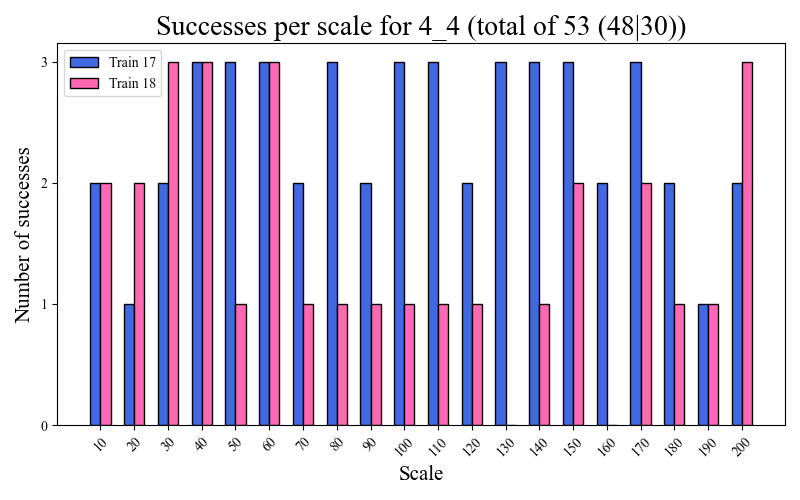
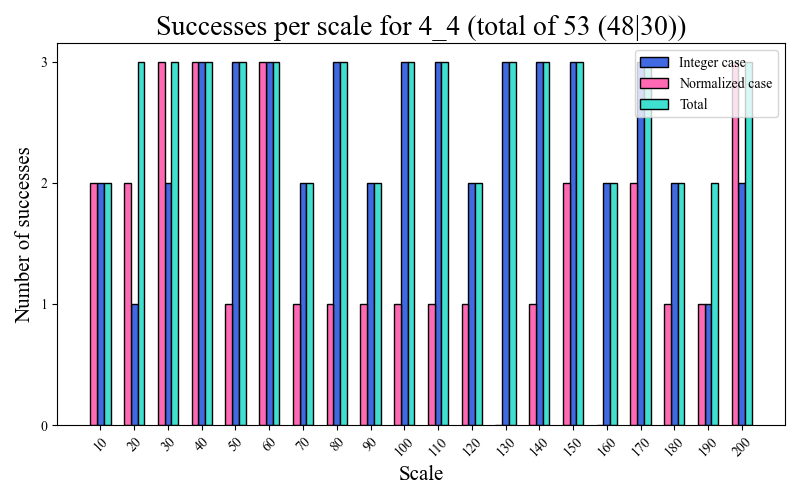
update figures with total success column

diff --git a/check_results.py b/check_results.py
@@ -23,8 +23,13 @@ def analyze_for_100_5_3():
     """
     # Sum the successes
     successes1, successes2, total_successes = 0, 0, 0
-    scale_successes1, scale_successes2 = {}, {}
+    scale_successes1, scale_successes2, scale_successes = {}, {}, {}
     repetitions = 5
+
+    # Modify the working directory
+    global WORKING_DIR
+    WORKING_DIR = join(WORKING_DIR, "100_5_3")
+
     for thread in os.listdir(join(WORKING_DIR, "train_18")):
         thread_dir1 = join(WORKING_DIR, "train_17", thread)
         thread_dir2 = join(WORKING_DIR, "train_18", thread)
@@ -39,6 +44,8 @@ def analyze_for_100_5_3():
             scale_successes1[scale] = 0
         if scale not in scale_successes2:
             scale_successes2[scale] = 0
+        if scale not in scale_successes:
+            scale_successes[scale] = 0
 
         # Check if the model succeeded
         if loss1 < 1e-5:
@@ -49,20 +56,23 @@ def analyze_for_100_5_3():
             scale_successes2[scale] += 1
         if loss1 < 1e-5 or loss2 < 1e-5:
             total_successes += 1
+            scale_successes[scale] += 1
 
     plt.figure(figsize=(8, 5))
     plt.title(f"Successes per scale (total of {total_successes} ({successes1}|{successes2}))", fontsize=20)
     xs = np.array(list(scale_successes1.keys()))
     ys1, ys2 = list(scale_successes1.values()), list(scale_successes2.values())
-    plt.bar(xs - 1.5, ys1, color="royalblue", width=3, edgecolor="black", label="Train 17")
-    plt.bar(xs + 1.5, ys2, color="hotpink", width=3, edgecolor="black", label="Train 18")
+    width, space = 2, 2
+    plt.bar(xs, ys1, color="royalblue", width=width, edgecolor="black", label="Integer case")
+    plt.bar(xs - space, ys2, color="hotpink", width=width, edgecolor="black", label="Normalized case")
+    plt.bar(xs + space, list(scale_successes.values()), color="turquoise", width=width, edgecolor="black", label="Total")
     plt.xticks(list(scale_successes1.keys()), rotation=45)
     plt.yticks(range(repetitions + 1))
     plt.xlabel("Scale", fontsize=15)
     plt.ylabel("Number of successes", fontsize=15)
     plt.legend()
     plt.tight_layout()
-    plt.savefig(join("plots", "successes_per_scale.png"))
+    plt.savefig(join("plots", "successes_per_scale_100_5_3.png"))
     plt.show()
 
 
@@ -74,10 +84,14 @@ def analyze_for_300_vary():
     """
     combinations = [[3, 5], [3, 6], [3, 4], [4, 4], [2, 8]]
 
+    # Modify the working directory
+    global WORKING_DIR
+    WORKING_DIR = join(WORKING_DIR, "300_vary")
+
     for i in range(len(combinations)):
         # Sum the successes
         successes1, successes2, total_successes = 0, 0, 0
-        scale_successes1, scale_successes2 = {}, {}
+        scale_successes1, scale_successes2, scale_successes = {}, {}, {}
         repetitions = 3
         for thread in os.listdir(join(WORKING_DIR, "train_18")):
             if int(thread.split("_")[1]) > 60 * (i + 1) or int(thread.split("_")[1]) <= 60 * i:
@@ -95,6 +109,8 @@ def analyze_for_300_vary():
                 scale_successes1[scale] = 0
             if scale not in scale_successes2:
                 scale_successes2[scale] = 0
+            if scale not in scale_successes:
+                scale_successes[scale] = 0
 
             # Check if the model succeeded
             if loss1 < 1e-5:
@@ -105,13 +121,16 @@ def analyze_for_300_vary():
                 scale_successes2[scale] += 1
             if loss1 < 1e-5 or loss2 < 1e-5:
                 total_successes += 1
+                scale_successes[scale] += 1
 
         plt.figure(figsize=(8, 5))
         plt.title(f"Successes per scale for {combinations[i][1]}_{combinations[i][0]} (total of {total_successes} ({successes1}|{successes2}))", fontsize=20)
         xs = np.array(list(scale_successes1.keys()))
         ys1, ys2 = list(scale_successes1.values()), list(scale_successes2.values())
-        plt.bar(xs - 1.5, ys1, color="royalblue", width=3, edgecolor="black", label="Train 17")
-        plt.bar(xs + 1.5, ys2, color="hotpink", width=3, edgecolor="black", label="Train 18")
+        width, space = 2, 2
+        plt.bar(xs, ys1, color="royalblue", width=width, edgecolor="black", label="Integer case")
+        plt.bar(xs - space, ys2, color="hotpink", width=width, edgecolor="black", label="Normalized case")
+        plt.bar(xs + space, list(scale_successes.values()), color="turquoise", width=width, edgecolor="black", label="Total")
         plt.xticks(list(scale_successes1.keys()), rotation=45)
         plt.yticks(range(repetitions + 1))
         plt.xlabel("Scale", fontsize=15)
@@ -122,4 +141,4 @@ def analyze_for_300_vary():
         plt.close()
 
 
-analyze_for_300_vary()
+analyze_for_100_5_3()

diff --git a/emphasize_free_coefficient.py b/emphasize_free_coefficient.py
@@ -1,0 +1,72 @@
+"""
+P(x): [-59, -44, -8, -21, -45, -16]
+Q(x): [47, -26, 58, 51]
+"""
+
+import sympy as sp
+import matplotlib.pyplot as plt
+from matplotlib import rcParams
+import os
+from os.path import join
+import numpy as np
+
+rcParams["font.family"] = "Times New Roman"
+
+x = sp.symbols("x")
+p0, p1, p2, p3, p4 = sp.symbols("p0 p1 p2 p3 p4")
+
+c = 51
+
+
+def solution_for_c(c):
+    p = p0 + p1 * x + p2 * x ** 2 + p3 * x ** 3 + p4 * x ** 4 - 59 * x ** 5
+    q = 47 * x ** 3 - 26 * x ** 2 + 58 * x + c
+
+    R = [-13531355413.0, 37427153270.0, -124900107230.0, 134024269071.0, -202775379472.0, -99425264576.0, 41478905686.0,
+         -431139381588.0, -169283178396.0, -163424044063.0, -453301229236.0, -249550989008.0, -157950418958.0,
+         -213096742104.0, -117110437956.0, -20655276793.0][::-1]
+    r = sum([R[i] * x ** i for i in range(len(R))])
+
+    # Create the equation
+    eq = sp.Eq(p.subs(x, q), r)
+    # Solve the equation
+    sol = sp.solve(eq, [p0, p1, p2, p3, p4], dict=True)
+    if isinstance(sol, list):
+        sol = sol[0]
+    try:
+        list_sol = [-59, sol[p4], sol[p3], sol[p2], sol[p1], sol[p0]]
+    except:
+        list_sol = None
+
+    return list_sol
+
+
+def plot_bar(ps, deviation, save_path=None):
+    plt.figure()
+    plt.bar(range(len(ps)), np.abs(ps), color="royalblue", edgecolor="black")
+    plt.xticks(range(len(ps)), [f"p{5 - i}" for i in range(len(ps))])
+    plt.yticks(np.abs(ps).astype(np.int64))
+    plt.xlabel("Coefficients", fontsize=15)
+    plt.ylabel("Value", fontsize=15)
+    sign = "+" if deviation >=0 else "-"
+    plt.title(f"P's coefficients for c = 51 {sign} {abs(deviation)}", fontsize=20)
+    if save_path:
+        plt.savefig(save_path)
+    plt.close()
+
+
+# Calculate solution for varying cs (around the target c)
+sol_to_c = {}
+for i in range(10):
+    sol_to_c[c + i] = solution_for_c(c + i)
+    sol_to_c[c - i] = solution_for_c(c - i)
+
+working_dir = join("plots", "constant_explained")
+os.makedirs(working_dir, exist_ok=True)
+
+for c_i in sol_to_c:
+    sol = sol_to_c[c_i]
+    if sol is None:
+        continue
+    deviation = c_i - c
+    plot_bar(sol, deviation, save_path=join(working_dir, f"c_{c_i}.png"))
